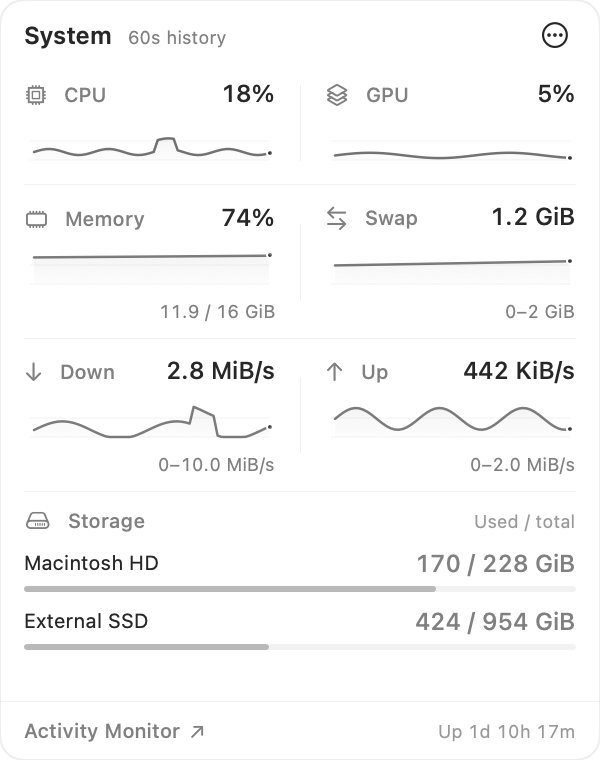
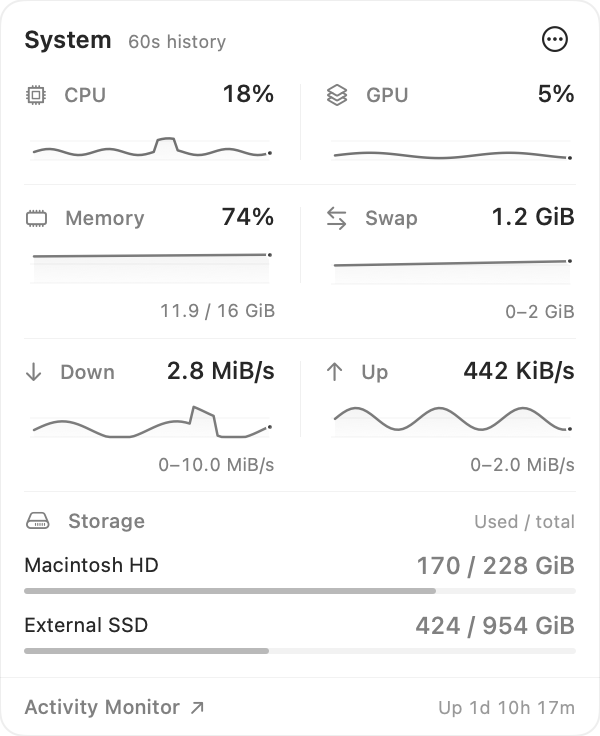
Release v1.6.2: balanced spacing and content-sized popup

diff --git a/Sources/SysMonitor/DetailView.swift b/Sources/SysMonitor/DetailView.swift
@@ -1,9 +1,10 @@
 import SwiftUI
 
 struct DetailView: View {
-    static let popupSize = CGSize(width: 300, height: 380)
+    static let popupSize = CGSize(width: 300, height: 368)
     @ObservedObject var viewModel: SystemUsageViewModel
-    var popupHeight: CGFloat = popupSize.height
+    // A nil height exposes the natural content size for the panel's sizing pass.
+    var popupHeight: CGFloat? = popupSize.height
     var onSettings: () -> Void = {}
     var onAbout: () -> Void = {}
     var onActivityMonitor: () -> Void = {}
@@ -15,32 +16,39 @@ struct DetailView: View {
 
     var body: some View {
         VStack(spacing: 0) {
-            header.padding(.horizontal, 12).padding(.top, 10).padding(.bottom, 8)
-            ScrollView {
-                VStack(spacing: 0) {
-                    HStack(spacing: 12) {
-                        MetricCard(title: "CPU", icon: "cpu", reading: metrics.cpu, history: snapshot.cpuHistory,
-                                   color: .primary.opacity(0.65), date: referenceDate)
-                        Rectangle().fill(Color.primary.opacity(0.07)).frame(width: 0.5, height: 38)
-                        MetricCard(title: "GPU", icon: "square.3.layers.3d", reading: metrics.gpu, history: snapshot.gpuHistory,
-                                   color: .primary.opacity(0.65), date: referenceDate)
-                    }
-                    sectionDivider
-                    MemoryCard(reading: metrics.memory, swapReading: metrics.swap,
-                               history: snapshot.memoryHistory, swapHistory: snapshot.swapHistory, date: referenceDate)
-                    sectionDivider
-                    NetworkCard(reading: metrics.network, downloadHistory: snapshot.downloadHistory,
-                                uploadHistory: snapshot.uploadHistory, date: referenceDate)
-                    sectionDivider
-                    StorageSection(reading: metrics.disks)
-                }
-                .padding(.horizontal, 12)
-                .padding(.bottom, 6)
+            header.padding(.horizontal, 12).padding(.top, 12).padding(.bottom, 4)
+            if popupHeight == nil {
+                sections
+            } else {
+                ScrollView { sections }
             }
             footer
         }
         .frame(width: Self.popupSize.width, height: popupHeight)
+        .fixedSize(horizontal: false, vertical: popupHeight == nil)
         .background(WeatherTheme.panelBackground(cornerRadius: 12))
+    }
+
+    private var sections: some View {
+        VStack(spacing: 0) {
+            HStack(alignment: .top, spacing: 12) {
+                MetricCard(title: "CPU", icon: "cpu", reading: metrics.cpu, history: snapshot.cpuHistory,
+                           color: .primary.opacity(0.65), date: referenceDate)
+                MetricColumnDivider()
+                MetricCard(title: "GPU", icon: "square.3.layers.3d", reading: metrics.gpu, history: snapshot.gpuHistory,
+                           color: .primary.opacity(0.65), date: referenceDate)
+            }
+            .modifier(MetricSurface())
+            sectionDivider
+            MemoryCard(reading: metrics.memory, swapReading: metrics.swap,
+                       history: snapshot.memoryHistory, swapHistory: snapshot.swapHistory, date: referenceDate)
+            sectionDivider
+            NetworkCard(reading: metrics.network, downloadHistory: snapshot.downloadHistory,
+                        uploadHistory: snapshot.uploadHistory, date: referenceDate)
+            sectionDivider
+            StorageSection(reading: metrics.disks)
+        }
+        .padding(.horizontal, 12)
     }
 
     private var header: some View {
@@ -67,7 +75,7 @@ struct DetailView: View {
     }
 
     private var sectionDivider: some View {
-        Rectangle().fill(Color.primary.opacity(0.06)).frame(height: 0.5).padding(.vertical, 2)
+        Rectangle().fill(Color.primary.opacity(0.06)).frame(height: 0.5)
     }
 
     private var footer: some View {

diff --git a/Sources/SysMonitor/StatusBarController.swift b/Sources/SysMonitor/StatusBarController.swift
@@ -18,6 +18,7 @@ class StatusBarController {
     // Shared ViewModel
     private var viewModel = SystemUsageViewModel()
     private var cancellables = Set<AnyCancellable>()
+    private var storageRowCount: Int?
     
     init() {
         statusBar = NSStatusBar.system
@@ -65,7 +66,17 @@ class StatusBarController {
         // Subscribe to metrics updates
         viewModel.$snapshot
             .sink { [weak self] snapshot in
-                self?.updateStatusBar(with: snapshot)
+                guard let self else { return }
+                self.updateStatusBar(with: snapshot)
+                let rowCount = snapshot.metrics.disks.value?.count ?? -1
+                if self.storageRowCount != rowCount {
+                    self.storageRowCount = rowCount
+                    // @Published delivers before the model stores its new snapshot.
+                    DispatchQueue.main.async { [weak self] in
+                        guard let self, self.window.isVisible else { return }
+                        _ = self.positionWindow()
+                    }
+                }
             }
             .store(in: &cancellables)
     }
@@ -239,7 +250,7 @@ class StatusBarController {
         SettingsWindowController.shared.showWindow()
     }
 
-    private func makeDetailView(height: CGFloat) -> DetailView {
+    private func makeDetailView(height: CGFloat?) -> DetailView {
         DetailView(viewModel: viewModel, popupHeight: height,
                    onSettings: { [weak self] in self?.showSettings(nil) },
                    onAbout: { [weak self] in self?.showAbout(nil) },
@@ -272,14 +283,15 @@ class StatusBarController {
         viewModel.stopTimer()
     }
     
-    private func showWindow() {
-        guard let button = statusItem.button, let screen = button.window?.screen ?? NSScreen.main else { return }
-        let openedWithPointer = NSApp.currentEvent?.type == .leftMouseUp
+    private func positionWindow() -> Bool {
+        guard let button = statusItem.button, let screen = button.window?.screen ?? NSScreen.main else { return false }
         
         let buttonRectInWindow = button.convert(button.bounds, to: nil)
         let buttonRectInScreen = button.window?.convertToScreen(buttonRectInWindow) ?? .zero
         
-        let contentSize = DetailView.popupSize
+        let measuredSize = NSHostingView(rootView: makeDetailView(height: nil)).fittingSize
+        let contentSize = CGSize(width: DetailView.popupSize.width,
+                                 height: min(ceil(measuredSize.height / 4) * 4, DetailView.popupSize.height))
         let frame = PopupPlacement.frame(contentSize: contentSize, button: buttonRectInScreen, visibleFrame: screen.visibleFrame)
         if let hostingView = window.contentView as? NSHostingView<DetailView> {
             hostingView.rootView = makeDetailView(height: frame.height)
@@ -290,6 +302,12 @@ class StatusBarController {
         )
         
         window.setFrame(frame, display: true)
+        return true
+    }
+
+    private func showWindow() {
+        let openedWithPointer = NSApp.currentEvent?.type == .leftMouseUp
+        guard positionWindow() else { return }
         window.makeKeyAndOrderFront(nil)
         NSApp.activate(ignoringOtherApps: true)
 

diff --git a/Sources/SysMonitor/MemoryCard.swift b/Sources/SysMonitor/MemoryCard.swift
@@ -16,12 +16,12 @@ struct MemoryCard: View {
     }
 
     var body: some View {
-        HStack(spacing: 12) {
+        HStack(alignment: .top, spacing: 12) {
             column(title: "Memory", icon: "memorychip", value: reading.value.map { MetricFormatting.percent($0.percentUsed) },
                    status: reading.statusText, history: history, maximum: 100,
                    caption: reading.value.map { String(format: "%.1f / %.0f GiB", $0.usedGB, $0.totalGB) } ?? "",
                    help: reading.value == nil ? reading.explanation : "Estimated active, wired, and compressed memory. History: last 60 seconds, 0–100%.")
-            Rectangle().fill(Color.primary.opacity(0.07)).frame(width: 0.5, height: 38)
+            MetricColumnDivider()
             column(title: "Swap", icon: "arrow.left.arrow.right", value: swapReading.value.map { String(format: "%.1f GiB", $0.usedGB) },
                    status: swapReading.statusText, history: swapHistory, maximum: swapMaximum,
                    caption: swapHistory.contains(where: { $0.value != nil }) ? String(format: "0–%.0f GiB", swapMaximum) : "",

diff --git a/Sources/SysMonitor/MetricCard.swift b/Sources/SysMonitor/MetricCard.swift
@@ -2,7 +2,14 @@ import SwiftUI
 
 struct MetricSurface: ViewModifier {
     func body(content: Content) -> some View {
-        content.padding(.vertical, 6)
+        content.padding(.vertical, 8)
+    }
+}
+
+struct MetricColumnDivider: View {
+    var body: some View {
+        Rectangle().fill(Color.primary.opacity(0.07))
+            .frame(width: 0.5, height: 38).padding(.top, 3)
     }
 }
 
@@ -32,7 +39,6 @@ struct MetricCard: View {
             }
         }
         .frame(maxWidth: .infinity, alignment: .leading)
-        .modifier(MetricSurface())
         .help(reading.value == nil ? reading.explanation : "\(title) utilization · 0–100% · last 60 seconds")
         .accessibilityElement(children: .ignore)
         .accessibilityLabel("\(title), \(reading.value.map { MetricFormatting.percent($0) } ?? reading.statusText)")

diff --git a/Sources/SysMonitor/NetworkCard.swift b/Sources/SysMonitor/NetworkCard.swift
@@ -16,9 +16,9 @@ struct NetworkCard: View {
     }
 
     var body: some View {
-        HStack(spacing: 12) {
+        HStack(alignment: .top, spacing: 12) {
             column("Download", label: "Down", icon: "arrow.down", value: reading.value?.download, history: downloadHistory)
-            Rectangle().fill(Color.primary.opacity(0.07)).frame(width: 0.5, height: 38)
+            MetricColumnDivider()
             column("Upload", label: "Up", icon: "arrow.up", value: reading.value?.upload, history: uploadHistory)
         }
         .modifier(MetricSurface())

diff --git a/Sources/SysMonitor/StorageSection.swift b/Sources/SysMonitor/StorageSection.swift
@@ -4,7 +4,7 @@ struct StorageSection: View {
     let reading: Reading<[DiskUsage]>
 
     var body: some View {
-        VStack(alignment: .leading, spacing: 7) {
+        VStack(alignment: .leading, spacing: 8) {
             HStack {
                 Label("Storage", systemImage: "internaldrive")
                     .font(DetailTypography.label).foregroundColor(.secondary)

diff --git a/README.md b/README.md
@@ -37,6 +37,7 @@ Unsigned builds may be blocked by macOS. After attempting to launch a build you 
 - **Click** the menu bar item (e.g., `CPU: 12% RAM: 45%`) to see detailed stats.
 - **Right-click** the menu bar item to access the **About** and **Quit** options.
 - The popup's **… menu** also exposes Settings, About, and Quit. Press **Escape** or click outside to dismiss it.
+- The popup fits its contents and scrolls for longer disk lists.
 - Select **Activity Monitor** to investigate resource use.
 - Charts show the **last 60 seconds**; gaps represent missing samples. Swap and network charts display their current scale.
 - Readings distinguish sampling, unavailable counters, and read failures. If updates stop for more than five seconds, the popup marks its readings as stale.
